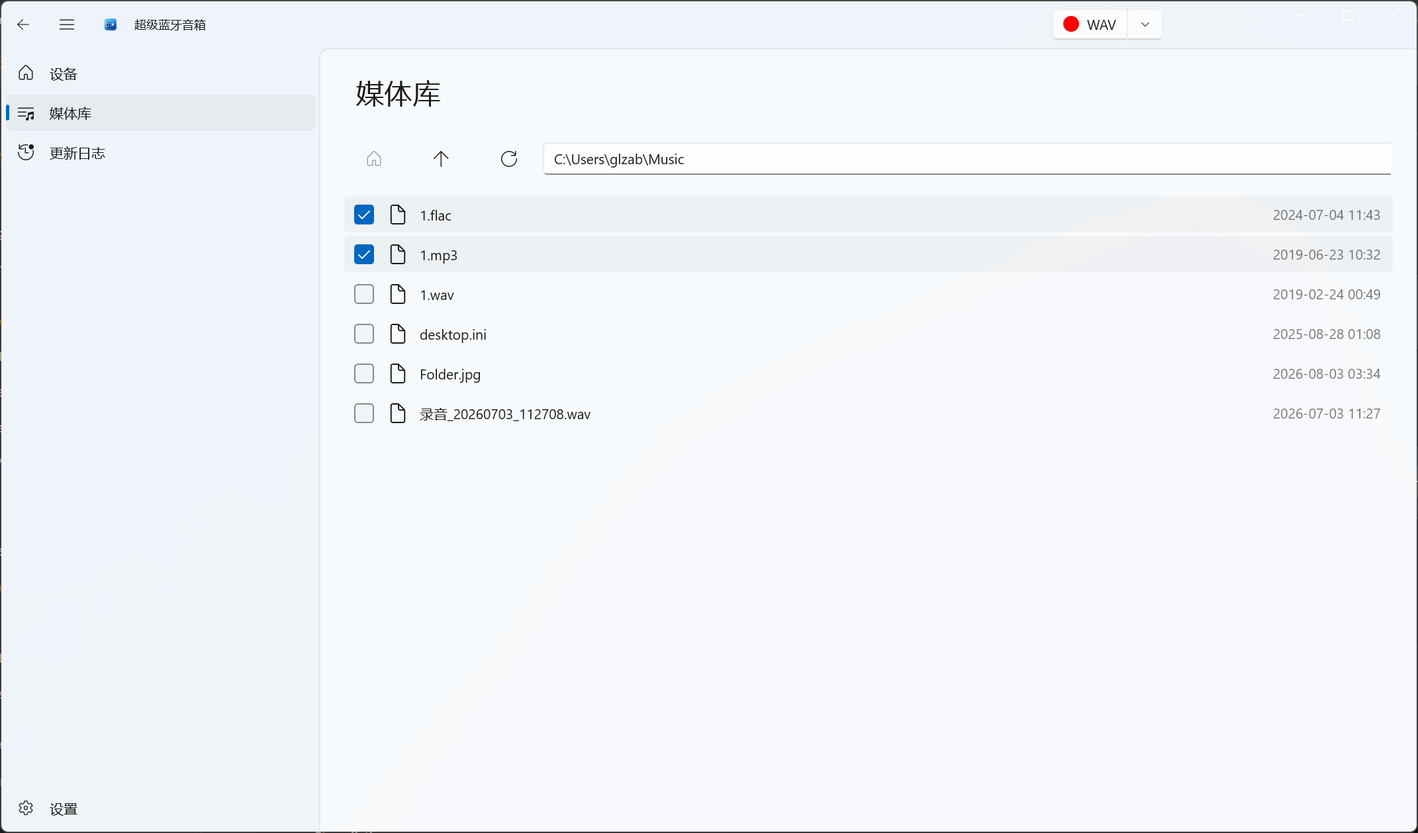
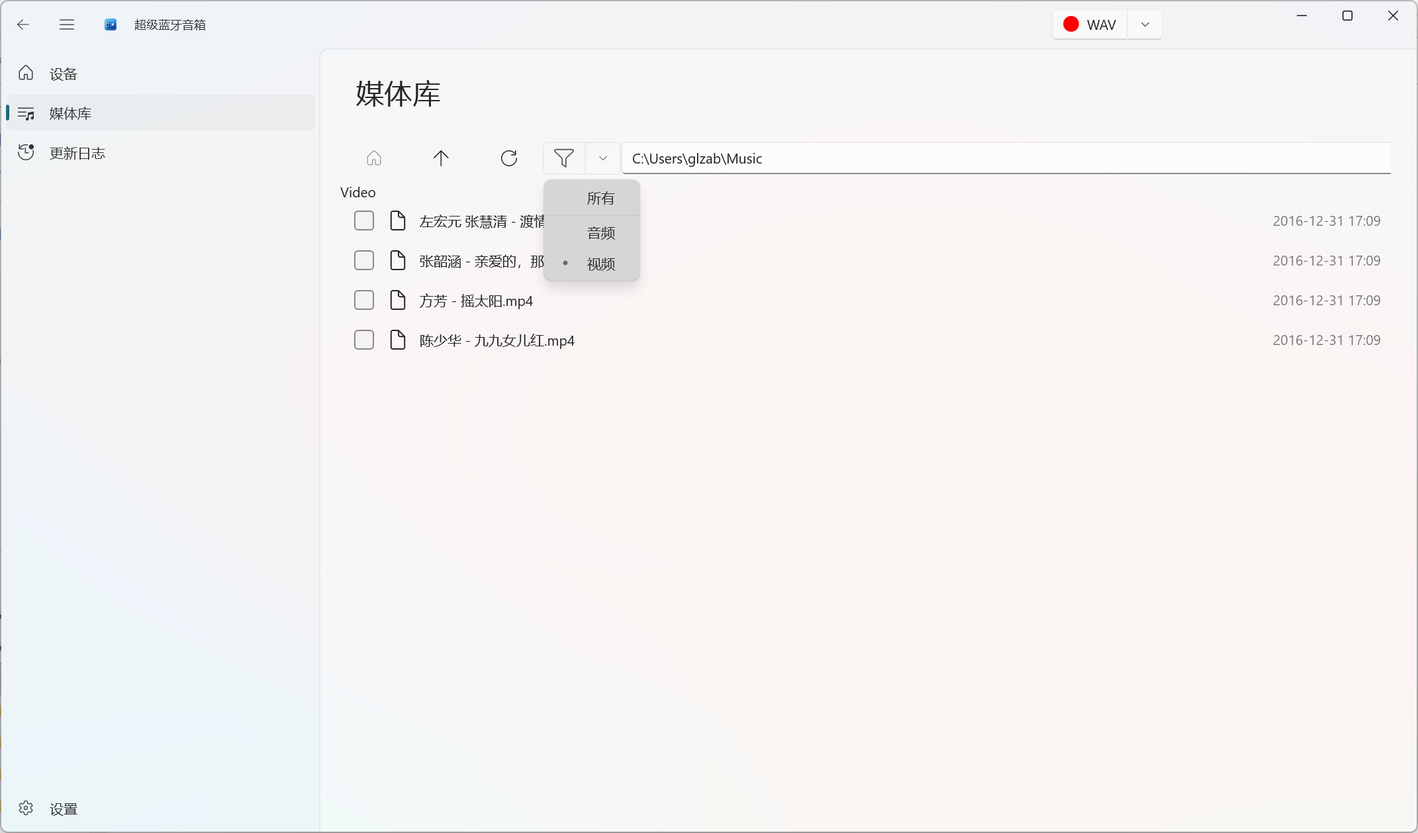
chore: 提交全部待发布改动
feat: 视频播放界面调整（MainWindow/ChangelogPage 代码）

update: Package.appxmanifest 更新与视频截图替换

docs: 新增播放界面截图 播放-Video.png 与微软商店文案 StoreListing.md（13 语言）

diff --git a/SuperAudio/MainWindow.xaml.cs b/SuperAudio/MainWindow.xaml.cs
@@ -312,7 +312,7 @@ namespace SuperAudio
                         this.Navigate(typeof(MediaLibraryPage));
                     };
                     menuFlyout.Items.Add(MenuItem_MediaLibrary);
-                    MenuFlyoutItem MenuItem_ChangeLog = new() { Text = App.ResourceLoader.GetString("Menu_Changelog/Content"), Icon = new FontIcon() { Glyph = "&#xF739;" } };
+                    MenuFlyoutItem MenuItem_ChangeLog = new() { Text = App.ResourceLoader.GetString("Menu_Changelog/Content") };
                     MenuItem_ChangeLog.Click += (s, e) =>
                     {
                         this.Navigate(typeof(ChangelogPage));

diff --git a/SuperAudio/Pages/ChangelogPage.xaml.cs b/SuperAudio/Pages/ChangelogPage.xaml.cs
@@ -22,6 +22,15 @@ namespace SuperAudio.Pages
         { get; set; } = [
                 new VersionItem
                 {
+                    VersionDisplay = "1.0.5",
+                    Date = "2026-08-18",
+                    Features =
+                    [
+                        "优化媒体库，增加音频视频过滤，调整视频播放界面，托盘部分增加更多操作项目，增加更多语言包"
+                    ]
+                },
+                new VersionItem
+                {
                     VersionDisplay = "1.0.4",
                     Date = "2026-08-06",
                     Features =

diff --git a/StoreListing.md b/StoreListing.md
@@ -1,0 +1,347 @@
+# 超级蓝牙音箱 微软商店文案（软件说明 + 本次更新）
+
+> 共 13 种语言。每种语言含两段：
+> - **软件说明（Description）** → 粘贴到商店提交的「描述」输入框
+> - **本次更新（What's New）** → 粘贴到商店提交的「新增功能 / 本次更新」输入框
+>
+> 本次更新内容来源：优化媒体库，增加音频视频过滤，调整视频播放界面，托盘部分增加更多操作项目，增加更多语言包。
+>
+> 说明：商店「应用名称」是独立保留字段，本文件描述正文中的产品名已按各语言本地化。
+
+---
+
+## 简体中文（zh-CN）
+
+### 软件说明
+超级蓝牙音箱 让你的电脑变身为一台蓝牙音箱（音频接收端）。手机、平板等设备的音乐或任意音频，都能通过蓝牙直接推送到电脑的扬声器或耳机播放；你也可以把电脑正在播放的系统声音录制并保存下来。
+
+除了蓝牙接收，超级蓝牙音箱 还内置本地媒体库与播放器，统一管理你的音乐与视频，并支持深色 / 浅色主题与跟随系统、13 种语言界面。
+
+主要特性：
+- 蓝牙音频接收：把电脑变成蓝牙音箱，接收手机等设备的音频
+- 系统音频录制：捕获系统输出声音并保存
+- 媒体库管理：浏览本地音乐与视频，支持音频 / 视频筛选
+- 内置播放器：在应用内播放你的媒体文件
+- 托盘快捷操作：通过系统托盘快速访问常用功能
+- 主题与多语言：深色 / 浅色 / 跟随系统，支持 13 种界面语言
+
+点击上方「获取」即可从微软商店安装。
+
+### 本次更新
+- 优化媒体库，浏览与管理本地媒体更流畅
+- 增加音频 / 视频过滤，快速筛选内容
+- 调整视频播放界面，观看体验更舒适
+- 托盘菜单增加更多操作入口，常用功能一键可达
+- 新增更多语言包，国际化支持进一步增强
+
+---
+
+## English (en-US)
+
+### Description
+Super Bluetooth Speaker turns your PC into a Bluetooth speaker (audio sink). Music or any audio from your phone, tablet, or other device streams straight to your PC's speakers or headphones over Bluetooth; you can also capture and save the system audio your PC is currently playing.
+
+Beyond Bluetooth receiving, Super Bluetooth Speaker includes a built-in local media library and player to manage your music and videos in one place, with dark / light / system theme support and a 13-language interface.
+
+Key features:
+- Bluetooth audio receiving: turn your PC into a Bluetooth speaker that plays audio from your phone and other devices
+- System audio recording: capture and save your PC's system output sound
+- Media library: browse local music and videos, with audio / video filtering
+- Built-in player: play your media files right inside the app
+- Tray quick actions: access common functions instantly from the system tray
+- Themes & languages: dark / light / system theme, with 13 interface languages
+
+Click Get above to install Super Bluetooth Speaker from the Microsoft Store.
+
+### What's New
+- Optimized the media library for smoother browsing and management of local media
+- Added audio / video filtering to quickly narrow down content
+- Redesigned the video playback screen for a more comfortable viewing experience
+- Added more actions to the system tray menu for one-click access to common features
+- Added more language packs to further enhance internationalization
+
+---
+
+## 繁體中文（zh-TW）
+
+### 軟體說明
+超級藍牙音箱 讓你的電腦變身為一台藍牙音箱（音訊接收端）。手機、平板等裝置的音樂或任意音訊，都能透過藍牙直接推送到電腦的喇叭或耳機播放；你也可以把電腦正在播放的系統聲音錄製並保存下來。
+
+除了藍牙接收，超級藍牙音箱 還內建本機媒體庫與播放器，統一管理你的音樂與影片，並支援深色 / 淺色主題與跟隨系統、13 種語言介面。
+
+主要特性：
+- 藍牙音訊接收：把電腦變成藍牙音箱，接收手機等裝置的音訊
+- 系統音訊錄製：擷取系統輸出的聲音並保存
+- 媒體庫管理：瀏覽本機音樂與影片，支援音訊 / 影片篩選
+- 內建播放器：在應用程式內播放你的媒體檔案
+- 托盤快捷操作：透過系統托盤快速存取常用功能
+- 主題與多語言：深色 / 淺色 / 跟隨系統，支援 13 種介面語言
+
+點擊上方「取得」即可從 Microsoft Store 安裝。
+
+### 本次更新
+- 優化媒體庫，瀏覽與管理本機媒體更順暢
+- 新增音訊 / 影片篩選，快速過濾內容
+- 調整影片播放介面，觀看體驗更舒適
+- 托盤選單新增更多操作入口，常用功能一鍵直達
+- 新增更多語言包，國際化支援進一步強化
+
+---
+
+## 繁體中文（香港，zh-HK）
+
+### 軟體說明
+超級藍牙音箱 令你的電腦化身為一部藍牙音箱（音訊接收端）。手機、平板等裝置的音樂或任何音訊，均可經藍牙直接傳送至電腦的喇叭或耳機播放；你亦可以將電腦正在播放的系統聲音錄製並儲存。
+
+除藍牙接收外，超級藍牙音箱 更內置本地媒體庫與播放器，集中管理你的音樂及影片，並支援深色 / 淺色主題與跟隨系統、13 種語言介面。
+
+主要特性：
+- 藍牙音訊接收：將電腦變成藍牙音箱，接收手機等裝置的音訊
+- 系統音訊錄製：擷取系統輸出聲音並儲存
+- 媒體庫管理：瀏覽本地音樂與影片，支援音訊 / 影片篩選
+- 內置播放器：於程式內播放你的媒體檔案
+- 托盤捷徑操作：經系統托盤快速使用常用功能
+- 主題與多語言：深色 / 淺色 / 跟隨系統，支援 13 種介面語言
+
+按上方「取得」即可從 Microsoft Store 安裝。
+
+### 本次更新
+- 優化媒體庫，瀏覽與管理本地媒體更暢順
+- 新增音訊 / 影片篩選，快捷過濾內容
+- 調整影片播放介面，觀看體驗更舒適
+- 托盤選單新增更多操作入口，常用功能一鍵直達
+- 新增更多語言包，國際化支援進一步強化
+
+---
+
+## 简体中文（新加坡，zh-SG）
+
+### 软件说明
+超级蓝牙音箱 让你的电脑化身为一台蓝牙音箱（音频接收端）。手机、平板等设备的音乐或任意音频，都能通过蓝牙直接传送到电脑的扬声器或耳机播放；你也可以把电脑正在播放的系统声音录下并保存。
+
+除了蓝牙接收，超级蓝牙音箱 还内置本地媒体库与播放器，集中管理你的音乐与视频，并支持深色 / 浅色主题与跟随系统、13 种语言界面。
+
+主要特性：
+- 蓝牙音频接收：把电脑变成蓝牙音箱，接收手机等设备的音频
+- 系统音频录制：捕获系统输出声音并保存
+- 媒体库管理：浏览本地音乐与视频，支持音频 / 视频筛选
+- 内置播放器：在应用内播放你的媒体文件
+- 托盘快捷操作：通过系统托盘快速访问常用功能
+- 主题与多语言：深色 / 浅色 / 跟随系统，支持 13 种界面语言
+
+点击上方「获取」即可从微软商店安装。
+
+### 本次更新
+- 优化媒体库，浏览与管理本地媒体更流畅
+- 增加音频 / 视频过滤，快速筛选内容
+- 调整视频播放界面，观看体验更舒适
+- 托盘菜单增加更多操作入口，常用功能一键可达
+- 新增更多语言包，国际化支持进一步增强
+
+---
+
+## 日本語（ja-JP）
+
+### アプリの説明
+スーパーブルートゥーススピーカー は、お使いのパソコンをブルートゥーススピーカー（音声受信端末）に変えます。スマートフォンやタブレットなどの音楽や任意の音声を、ブルートゥース経由でパソコンのスピーカーやヘッドホンに直接再生できます。また、パソコンで現在再生されているシステム音声を録音して保存することも可能です。
+
+ブルートゥース受信に加えて、スーパーブルートゥーススピーカー にはローカルメディアライブラリとプレーヤーが内蔵されており、音楽や動画を一元管理できます。ダーク / ライト / システム連動のテーマと、13 言語のインターフェイスにも対応しています。
+
+主な機能：
+- ブルートゥース音声受信：パソコンをブルートゥーススピーカーにして、スマホなどの音声を受信
+- システム音声録音：システム出力の音声をキャプチャして保存
+- メディアライブラリ：ローカルの音楽と動画を閲覧（音声 / 動画でフィルター可能）
+- 内蔵プレーヤー：アプリ内でメディアファイルを再生
+- トレイのクイック操作：システムトレイからよく使う機能へすばやくアクセス
+- テーマと多言語：ダーク / ライト / システム連動のテーマ、13 言語のインターフェイス
+
+上の「入手」をクリックすると、Microsoft Store から スーパーブルートゥーススピーカー をインストールできます。
+
+### 今回の更新内容
+- メディアライブラリを最適化し、ローカルメディアの閲覧と管理がよりスムーズに
+- 音声 / 動画のフィルターを追加し、コンテンツを素早く絞り込み
+- 動画再生画面を調整し、視聴体験がより快適に
+- システムトレイのメニューに操作項目を追加し、よく使う機能へワンタッチでアクセス
+- 言語パックを追加し、国際化対応をさらに強化
+
+---
+
+## 한국어（ko-KR）
+
+### 앱 설명
+슈퍼 블루투스 스피커는 여러분의 PC를 블루투스 스피커(오디오 싱크)로 바꿔 줍니다. 스마트폰, 태블릿 등의 음악이나 모든 오디오를 블루투스를 통해 PC의 스피커나 헤드폰으로 바로 재생할 수 있으며, PC에서 현재 재생 중인 시스템 소리를 녹음하여 저장할 수도 있습니다.
+
+블루투스 수신 외에도 슈퍼 블루투스 스피커에는 로컬 미디어 라이브러리와 플레이어가 내장되어 있어 음악과 동영상을 한곳에서 관리할 수 있고, 다크 / 라이트 / 시스템 따르기 테마와 13개 언어 인터페이스를 지원합니다.
+
+주요 기능:
+- 블루투스 오디오 수신: PC를 블루투스 스피커로 만들어 스마트폰 등의 오디오 수신
+- 시스템 오디오 녹음: 시스템 출력 소리를 캡처하여 저장
+- 미디어 라이브러리: 로컬 음악과 동영상 탐색(오디오 / 동영상 필터 지원)
+- 내장 플레이어: 앱 내에서 미디어 파일 재생
+- 트레이 빠른 작업: 시스템 트레이에서 자주 쓰는 기능에 빠르게 액세스
+- 테마 및 다국어: 다크 / 라이트 / 시스템 따르기 테마, 13개 언어 인터페이스
+
+위의 [받기]를 클릭하여 Microsoft Store에서 슈퍼 블루투스 스피커를 설치하세요.
+
+### 이번 업데이트
+- 미디어 라이브러리 최적화로 로컬 미디어 탐색 및 관리가 더 부드러워짐
+- 오디오 / 동영상 필터 추가로 콘텐츠를 빠르게 걸러냄
+- 동영상 재생 화면 조정으로 시청 경험이 더 편안해짐
+- 시스템 트레이 메뉴에 작업 항목 추가로 자주 쓰는 기능에 원터치 액세스
+- 언어 팩을 추가하여 국제화 지원을 더욱 강화했습니다
+
+---
+
+## Français (fr-FR)
+
+### Description
+Super Enceinte Bluetooth transforme votre PC en enceinte Bluetooth (récepteur audio). La musique ou tout autre son provenant de votre téléphone, tablette ou autre appareil est diffusé directement sur les enceintes ou le casque de votre ordinateur via Bluetooth ; vous pouvez également enregistrer et sauvegarder le son système que votre PC est en train de lire.
+
+Au-delà de la réception Bluetooth, Super Enceinte Bluetooth intègre une bibliothèque multimédia locale et un lecteur pour gérer vos musiques et vidéos au même endroit, avec prise en charge des thèmes sombre / clair / système et d'une interface en 13 langues.
+
+Fonctionnalités principales :
+- Réception audio Bluetooth : transformez votre PC en enceinte Bluetooth qui lit l'audio de votre téléphone et autres appareils
+- Enregistrement audio système : capturez et sauvegardez le son de sortie système de votre PC
+- Bibliothèque multimédia : parcourez vos musiques et vidéos locales, avec filtrage audio / vidéo
+- Lecteur intégré : lisez vos fichiers multimédias directement dans l'application
+- Actions rapides dans la zone de notification : accédez instantanément aux fonctions courantes depuis la barre d'état système
+- Thèmes et langues : thème sombre / clair / système, interface en 13 langues
+
+Cliquez sur Obtenir ci-dessus pour installer Super Enceinte Bluetooth depuis le Microsoft Store.
+
+### Nouveautés
+- Optimisation de la bibliothèque multimédia pour une navigation et une gestion des médias locaux plus fluides
+- Ajout du filtrage audio / vidéo pour trouver rapidement le contenu
+- Ajustement de l'écran de lecture vidéo pour une expérience de visionnage plus confortable
+- Ajout de nouvelles actions au menu de la zone de notification pour un accès en un clic aux fonctions courantes
+- Ajout de nouveaux packs de langue pour renforcer davantage l'internationalisation
+
+---
+
+## Deutsch (de-DE)
+
+### Beschreibung
+Super Bluetooth-Lautsprecher verwandelt Ihren PC in einen Bluetooth-Lautsprecher (Audio-Senke). Musik oder jedes andere Audio von Ihrem Smartphone, Tablet oder einem anderen Gerät wird über Bluetooth direkt an die Lautsprecher oder Kopfhörer Ihres PCs übertragen; Sie können zudem den Systemton, den Ihr PC gerade abspielt, aufnehmen und speichern.
+
+Neben dem Bluetooth-Empfang bietet Super Bluetooth-Lautsprecher eine integrierte lokale Medienbibliothek und einen Player, um Ihre Musik und Videos an einem Ort zu verwalten, mit Unterstützung für dunkle / helle / System-Designs und eine 13-sprachige Oberfläche.
+
+Hauptfunktionen:
+- Bluetooth-Audioempfang: Verwandeln Sie Ihren PC in einen Bluetooth-Lautsprecher, der Audio von Ihrem Smartphone und anderen Geräten abspielt
+- Systemaudio-Aufnahme: Erfassen und speichern Sie den Systemausgangston Ihres PCs
+- Medienbibliothek: Durchsuchen Sie lokale Musik und Videos, mit Audio-/Video-Filter
+- Integrierter Player: Spielen Sie Ihre Mediendateien direkt in der App ab
+- Schnellaktionen im Infobereich: Greifen Sie über das Systray schnell auf häufig genutzte Funktionen zu
+- Designs & Sprachen: Dunkles / helles / System-Design, Oberfläche in 13 Sprachen
+
+Klicken Sie oben auf „Abrufen“, um Super Bluetooth-Lautsprecher aus dem Microsoft Store zu installieren.
+
+### Neu in dieser Version
+- Medienbibliothek optimiert, sodass das Durchsuchen und Verwalten lokaler Medien flüssiger läuft
+- Audio-/Video-Filter hinzugefügt, um Inhalte schnell einzugrenzen
+- Videowiedergabe-Bildschirm angepasst für ein komfortableres Seherlebnis
+- Weitere Aktionen im Infobereich-Menü für den Ein-Klick-Zugriff auf häufig genutzte Funktionen
+- Weitere Sprachpakete hinzugefügt, um die Internationalisierung weiter zu verbessern
+
+---
+
+## Español (es-ES)
+
+### Descripción
+Super Altavoz Bluetooth convierte tu PC en un altavoz Bluetooth (receptor de audio). La música u otro audio de tu teléfono, tableta u otro dispositivo se reproduce directamente en los altavoces o auriculares de tu ordenador a través de Bluetooth; también puedes grabar y guardar el sonido del sistema que tu PC está reproduciendo.
+
+Además de la recepción Bluetooth, Super Altavoz Bluetooth incluye una biblioteca multimedia local y un reproductor integrados para gestionar tu música y tus vídeos en un mismo lugar, con soporte para temas oscuro / claro / sistema y una interfaz en 13 idiomas.
+
+Funciones principales:
+- Recepción de audio Bluetooth: convierte tu PC en un altavoz Bluetooth que reproduce el audio de tu teléfono y otros dispositivos
+- Grabación de audio del sistema: captura y guarda el sonido de salida del sistema de tu PC
+- Biblioteca multimedia: explora tu música y vídeos locales, con filtro de audio / vídeo
+- Reproductor integrado: reproduce tus archivos multimedia dentro de la aplicación
+- Acciones rápidas en el área de notificación: accede al instante a funciones habituales desde la bandeja del sistema
+- Temas e idiomas: tema oscuro / claro / sistema, interfaz en 13 idiomas
+
+Haz clic en Obtener arriba para instalar Super Altavoz Bluetooth desde Microsoft Store.
+
+### Novedades
+- Biblioteca multimedia optimizada para una exploración y gestión de los medios locales más fluida
+- Se añadió el filtrado de audio / vídeo para encontrar contenido rápidamente
+- Se ajustó la pantalla de reproducción de vídeo para una experiencia de visualización más cómoda
+- Se añadieron más acciones al menú del área de notificación para acceder con un clic a funciones habituales
+- Se añadieron más paquetes de idioma para mejorar aún más la internacionalización
+
+---
+
+## Italiano (it-IT)
+
+### Descrizione
+Super Altoparlante Bluetooth trasforma il tuo PC in un altoparlante Bluetooth (ricevitore audio). Musica o qualsiasi altro audio dal tuo telefono, tablet o altro dispositivo viene riprodotto direttamente sugli altoparlanti o cuffie del computer tramite Bluetooth; puoi inoltre registrare e salvare l'audio di sistema che il PC sta riproducendo.
+
+Oltre alla ricezione Bluetooth, Super Altoparlante Bluetooth include una libreria multimediale locale e un lettore integrati per gestire musica e video in un unico posto, con supporto per i temi scuro / chiaro / sistema e un'interfaccia in 13 lingue.
+
+Funzionalità principali:
+- Ricezione audio Bluetooth: trasforma il PC in un altoparlante Bluetooth che riproduce l'audio di telefono e altri dispositivi
+- Registrazione audio di sistema: cattura e salva l'audio di uscita del sistema del PC
+- Libreria multimediale: sfoglia musica e video locali, con filtro audio / video
+- Lettore integrato: riproduci i tuoi file multimediali direttamente nell'app
+- Azioni rapide nell'area di notifica: accedi all'istante alle funzioni comuni dalla system tray
+- Temi e lingue: tema scuro / chiaro / sistema, interfaccia in 13 lingue
+
+Fai clic su Ottieni in alto per installare Super Altoparlante Bluetooth dal Microsoft Store.
+
+### Novità
+- Libreria multimediale ottimizzata per una navigazione e gestione dei media locali più fluida
+- Aggiunto il filtro audio / video per individuare rapidamente i contenuti
+- Schermata di riproduzione video regolata per un'esperienza di visione più confortevole
+- Altre voci aggiunte al menu dell'area di notifica per accedere con un clic alle funzioni comuni
+- Aggiunti altri pacchetti linguistici per potenziare ulteriormente l'internazionalizzazione
+
+---
+
+## Português (Brasil) (pt-BR)
+
+### Descrição
+O Super Alto-falante Bluetooth transforma seu PC em uma caixa de som Bluetooth (receptor de áudio). A música ou qualquer áudio do seu telefone, tablet ou outro dispositivo é reproduzido diretamente nos alto-falantes ou fones de ouvido do computador via Bluetooth; você também pode gravar e salvar o áudio do sistema que o PC está reproduzindo.
+
+Além do recebimento Bluetooth, o Super Alto-falante Bluetooth inclui uma biblioteca de mídia local e um player integrados para gerenciar suas músicas e vídeos em um só lugar, com suporte a temas escuro / claro / sistema e uma interface em 13 idiomas.
+
+Principais recursos:
+- Recebimento de áudio Bluetooth: transforme seu PC em uma caixa de som Bluetooth que reproduz o áudio do seu telefone e outros dispositivos
+- Gravação de áudio do sistema: capture e salve o áudio de saída do sistema do PC
+- Biblioteca de mídia: navegue por suas músicas e vídeos locais, com filtro de áudio / vídeo
+- Player integrado: reproduza seus arquivos de mídia dentro do aplicativo
+- Ações rápidas na bandeja do sistema: acesse instantaneamente as funções comuns pela bandeja do sistema
+- Temas e idiomas: tema escuro / claro / sistema, interface em 13 idiomas
+
+Clique em Obter acima para instalar o Super Alto-falante Bluetooth na Microsoft Store.
+
+### Novidades
+- Biblioteca de mídia otimizada para uma navegação e gestão das mídias locais mais fluidas
+- Adicionado filtro de áudio / vídeo para encontrar conteúdos rapidamente
+- Tela de reprodução de vídeo ajustada para uma experiência de visualização mais confortável
+- Mais ações adicionadas ao menu da bandeja do sistema para acesso com um clique às funções comuns
+- Mais pacotes de idioma adicionados para reforçar ainda mais a internacionalização
+
+---
+
+## Русский (ru-RU)
+
+### Описание
+Супер Bluetooth-колонка превращает ваш ПК в Bluetooth-колонку (аудиоприёмник). Музыка или любой другой звук с вашего телефона, планшета или другого устройства воспроизводится напрямую через Bluetooth на колонках или наушниках компьютера; вы также можете записать и сохранить системный звук, который ПК воспроизводит в данный момент.
+
+Помимо приёма по Bluetooth, Супер Bluetooth-колонка включает встроенную локальную медиатеку и плеер для управления вашей музыкой и видео в одном месте, с поддержкой тёмной / светлой / системной темы и интерфейса на 13 языках.
+
+Основные возможности:
+- Приём аудио по Bluetooth: превратите ПК в Bluetooth-колонку, воспроизводящую звук с телефона и других устройств
+- Запись системного аудио: захватывайте и сохраняйте выходной звук системы ПК
+- Медиатека: просматривайте локальную музыку и видео с фильтром аудио / видео
+- Встроенный плеер: воспроизводите медиафайлы прямо в приложении
+- Быстрые действия в области уведомлений: мгновенный доступ к частым функциям из системного трея
+- Темы и языки: тёмная / светлая / системная тема, интерфейс на 13 языках
+
+Нажмите «Получить» выше, чтобы установить Супер Bluetooth-колонка из Microsoft Store.
+
+### Что нового
+- Оптимизирована медиатека: обзор и управление локальными медиа стали плавнее
+- Добавлена фильтрация аудио / видео для быстрого отбора содержимого
+- Скорректирован экран воспроизведения видео для более комфортного просмотра
+- В меню области уведомлений добавлены новые действия для доступа к частым функциям в один клик
+- Добавлены новые языковые пакеты для дальнейшего расширения интернационализации
